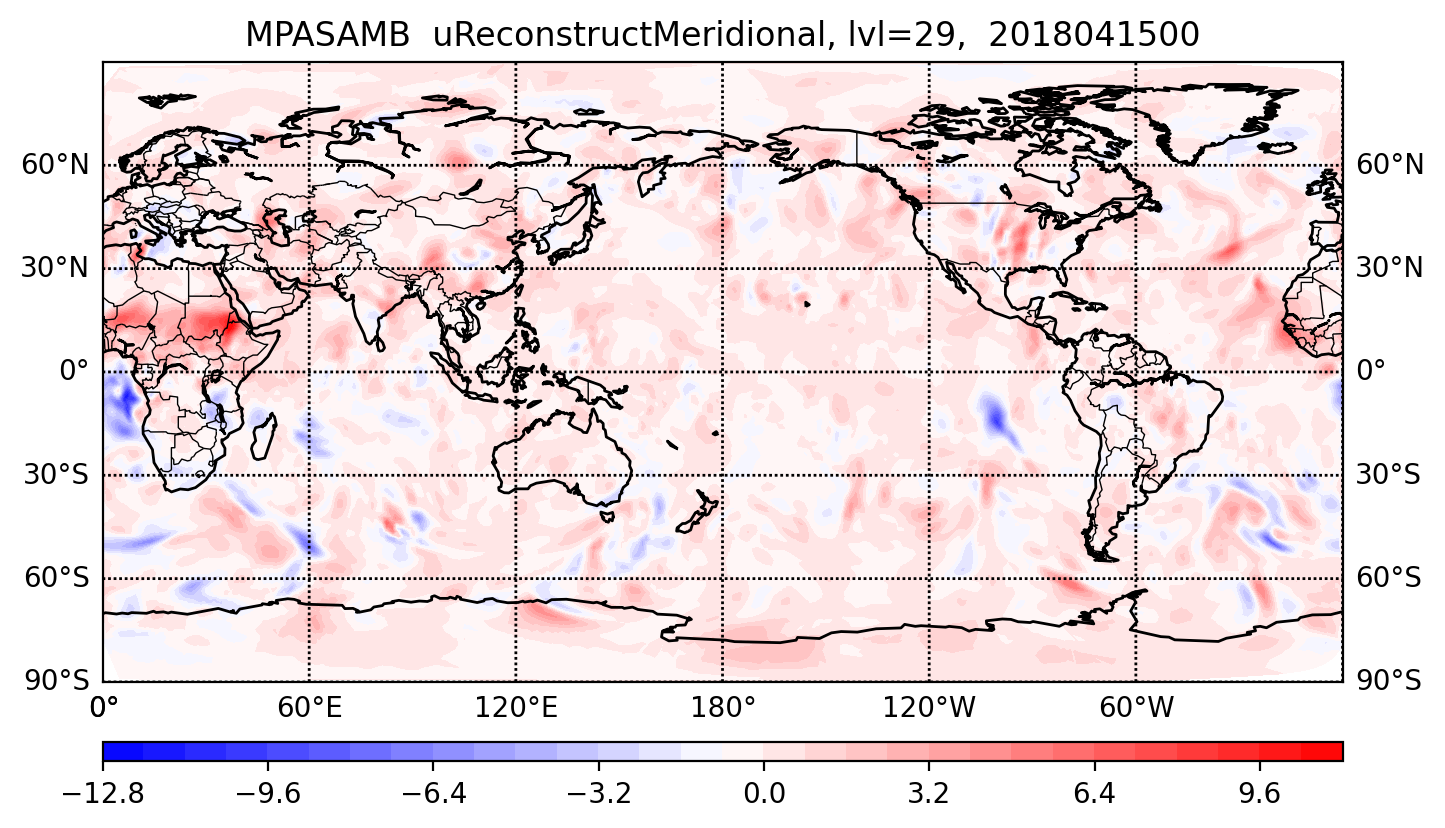
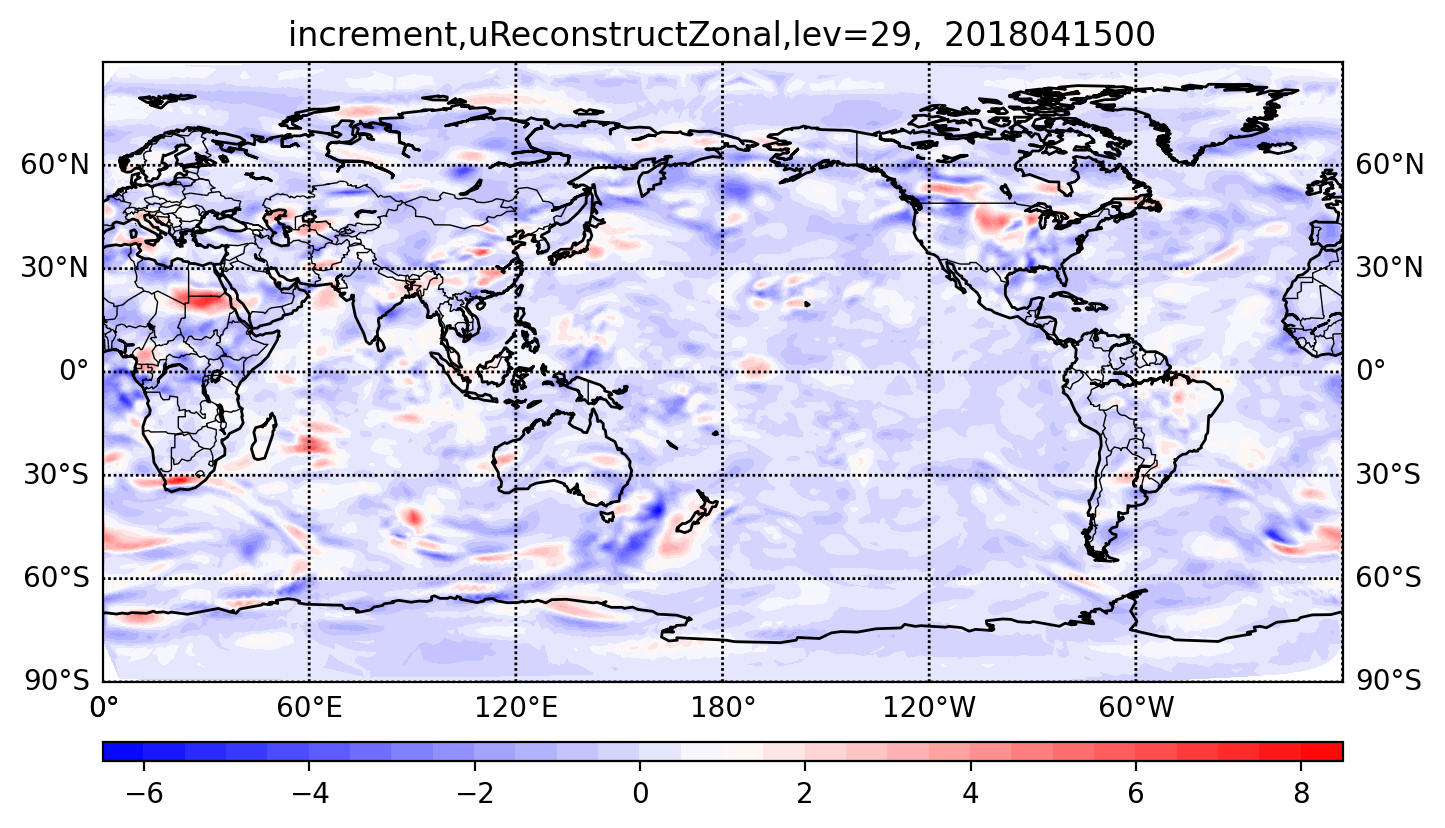
Revision of mpas jedi diag (#259)
* diagnostics.rst

* u_inc.png

* Modified diagnostics.rst

* Modified diagnostics.rst

* Use correct variable name.

* Resize figure.

* Modified code path.

diff --git a/docs/inside/jedi-components/mpas-jedi/diagnostics.rst b/docs/inside/jedi-components/mpas-jedi/diagnostics.rst
@@ -5,39 +5,42 @@ Diagnostics
 
 The purpose of this package is to help developers and users evaluate MPAS-JEDI performance, and
 diagnose potential errors in the system. The package includes scripts for plotting the cost
-function, the norm of the gradient, observation distribution, and analysis increment. It also
-includes observation- and model-space verification tools for tracking the performance of cycling
+function, the norm of the gradient, observation distribution, and analysis increment.
+To support testing of EDA with MPAS-JEDI, the package includes probabilistic evaluations of the ensemble of
+background forecasts. It also includes observation- and model-space verification tools for tracking the performance of cycling
 experiments. Those tools evaluate traditional statistical measures (Mean, RMS, STD, etc...) for
 surface and upper air variables. Additionally there is some capability for determining confidence
 intervals for those verification measures. Both the model- and observation-space components provide
 a means to store intermediate statistical measures and then visualize verification statistics. 
 
+Cartopy, matplotlib, numpy, h5py, and netCDF4 Python packages are required to perform the diagnostics.
+
 Analysis Increments
 -------------------
 A plot of analysis increments can help users to understand how the model analysis has adjusted to
 assimilated observations. You can calculate the analysis increment and make figures for different
-analysis fields by using :code:`mpas-jedi/test/graphics/plot_inc.py`. The following example is for
-visualizing the analysis increment of the meridional component of reconstructed horizontal velocity.
+analysis fields by using :code:`mpas-bundle/mpas-jedi/graphics/plot_inc.py`. The following example is for
+visualizing the analysis increment of the Zonal component of reconstructed horizontal velocity.
 
 .. code-block:: bash
 
-   python $GRAPHICS_DIR/plot_inc.py $DATE 3denvar uReconstructMeridional 29 True $GFSANA_DIR
+   python $GRAPHICS_DIR/plot_inc.py $DATE 3denvar uReconstructZonal 1 False
 
-The argument :code:`True` means the MPAS analysis will also be compared with corresponding GFS
-analysis.
+The argument :code:`1` means the analysis increment will be plotted by each level, and
+the argument :code:`False` means the MPAS analysis will not be compared with corresponding GFS analysis.
 
 .. _u-inc:
 .. figure:: images/u_inc.png
-   :height: 200px
+   :height: 400px
    :align: center
 
-   Figure 1. Meridional wind increment at 0000 UTC 15 Apr 2018 on the 29th model level.
+   Figure 1. Zonal wind increment at 0000 UTC 15 Apr 2018 on the 29th model level.
 
 Observation-space verification
 ------------------------------
 
 All scripts discussed in this section are located in :code:`GRAPHICS_DIR/cycling`, where
-:code:`GRAPHICS_DIR = mpas-jedi/test/graphics`.
+:code:`GRAPHICS_DIR = mpas-bundle/mpas-jedi/graphics`.
 
 MPAS-JEDI utilizes the IODA and UFO file writing mechanisms to generate observation-space feedback
 files from hofx and variational applications. That includes the standard IODA ObsSpace as well as
@@ -90,7 +93,7 @@ Model-space verification
 Model-space verification can be used to verify a forecast against gridded fields (e.g., GFS analyses).
 Users can use a shell script to control model-space verification,
 and the modelsp_utils.py includes variables needed when you setup environment variables in the shell script,
-such as :code:`expLongNames`, :code:`initDate`, :code:`endDate1`, :code:`intervalHours`, :code:`fcHours`, etc.
+such as :code:`expLongNames`, :code:`initDate`, :code:`endDate`, :code:`intervalHours`, :code:`fcHours`, etc.
 
 The sample shell script for write diagnostics and visualize verification statistics looks like:
 
